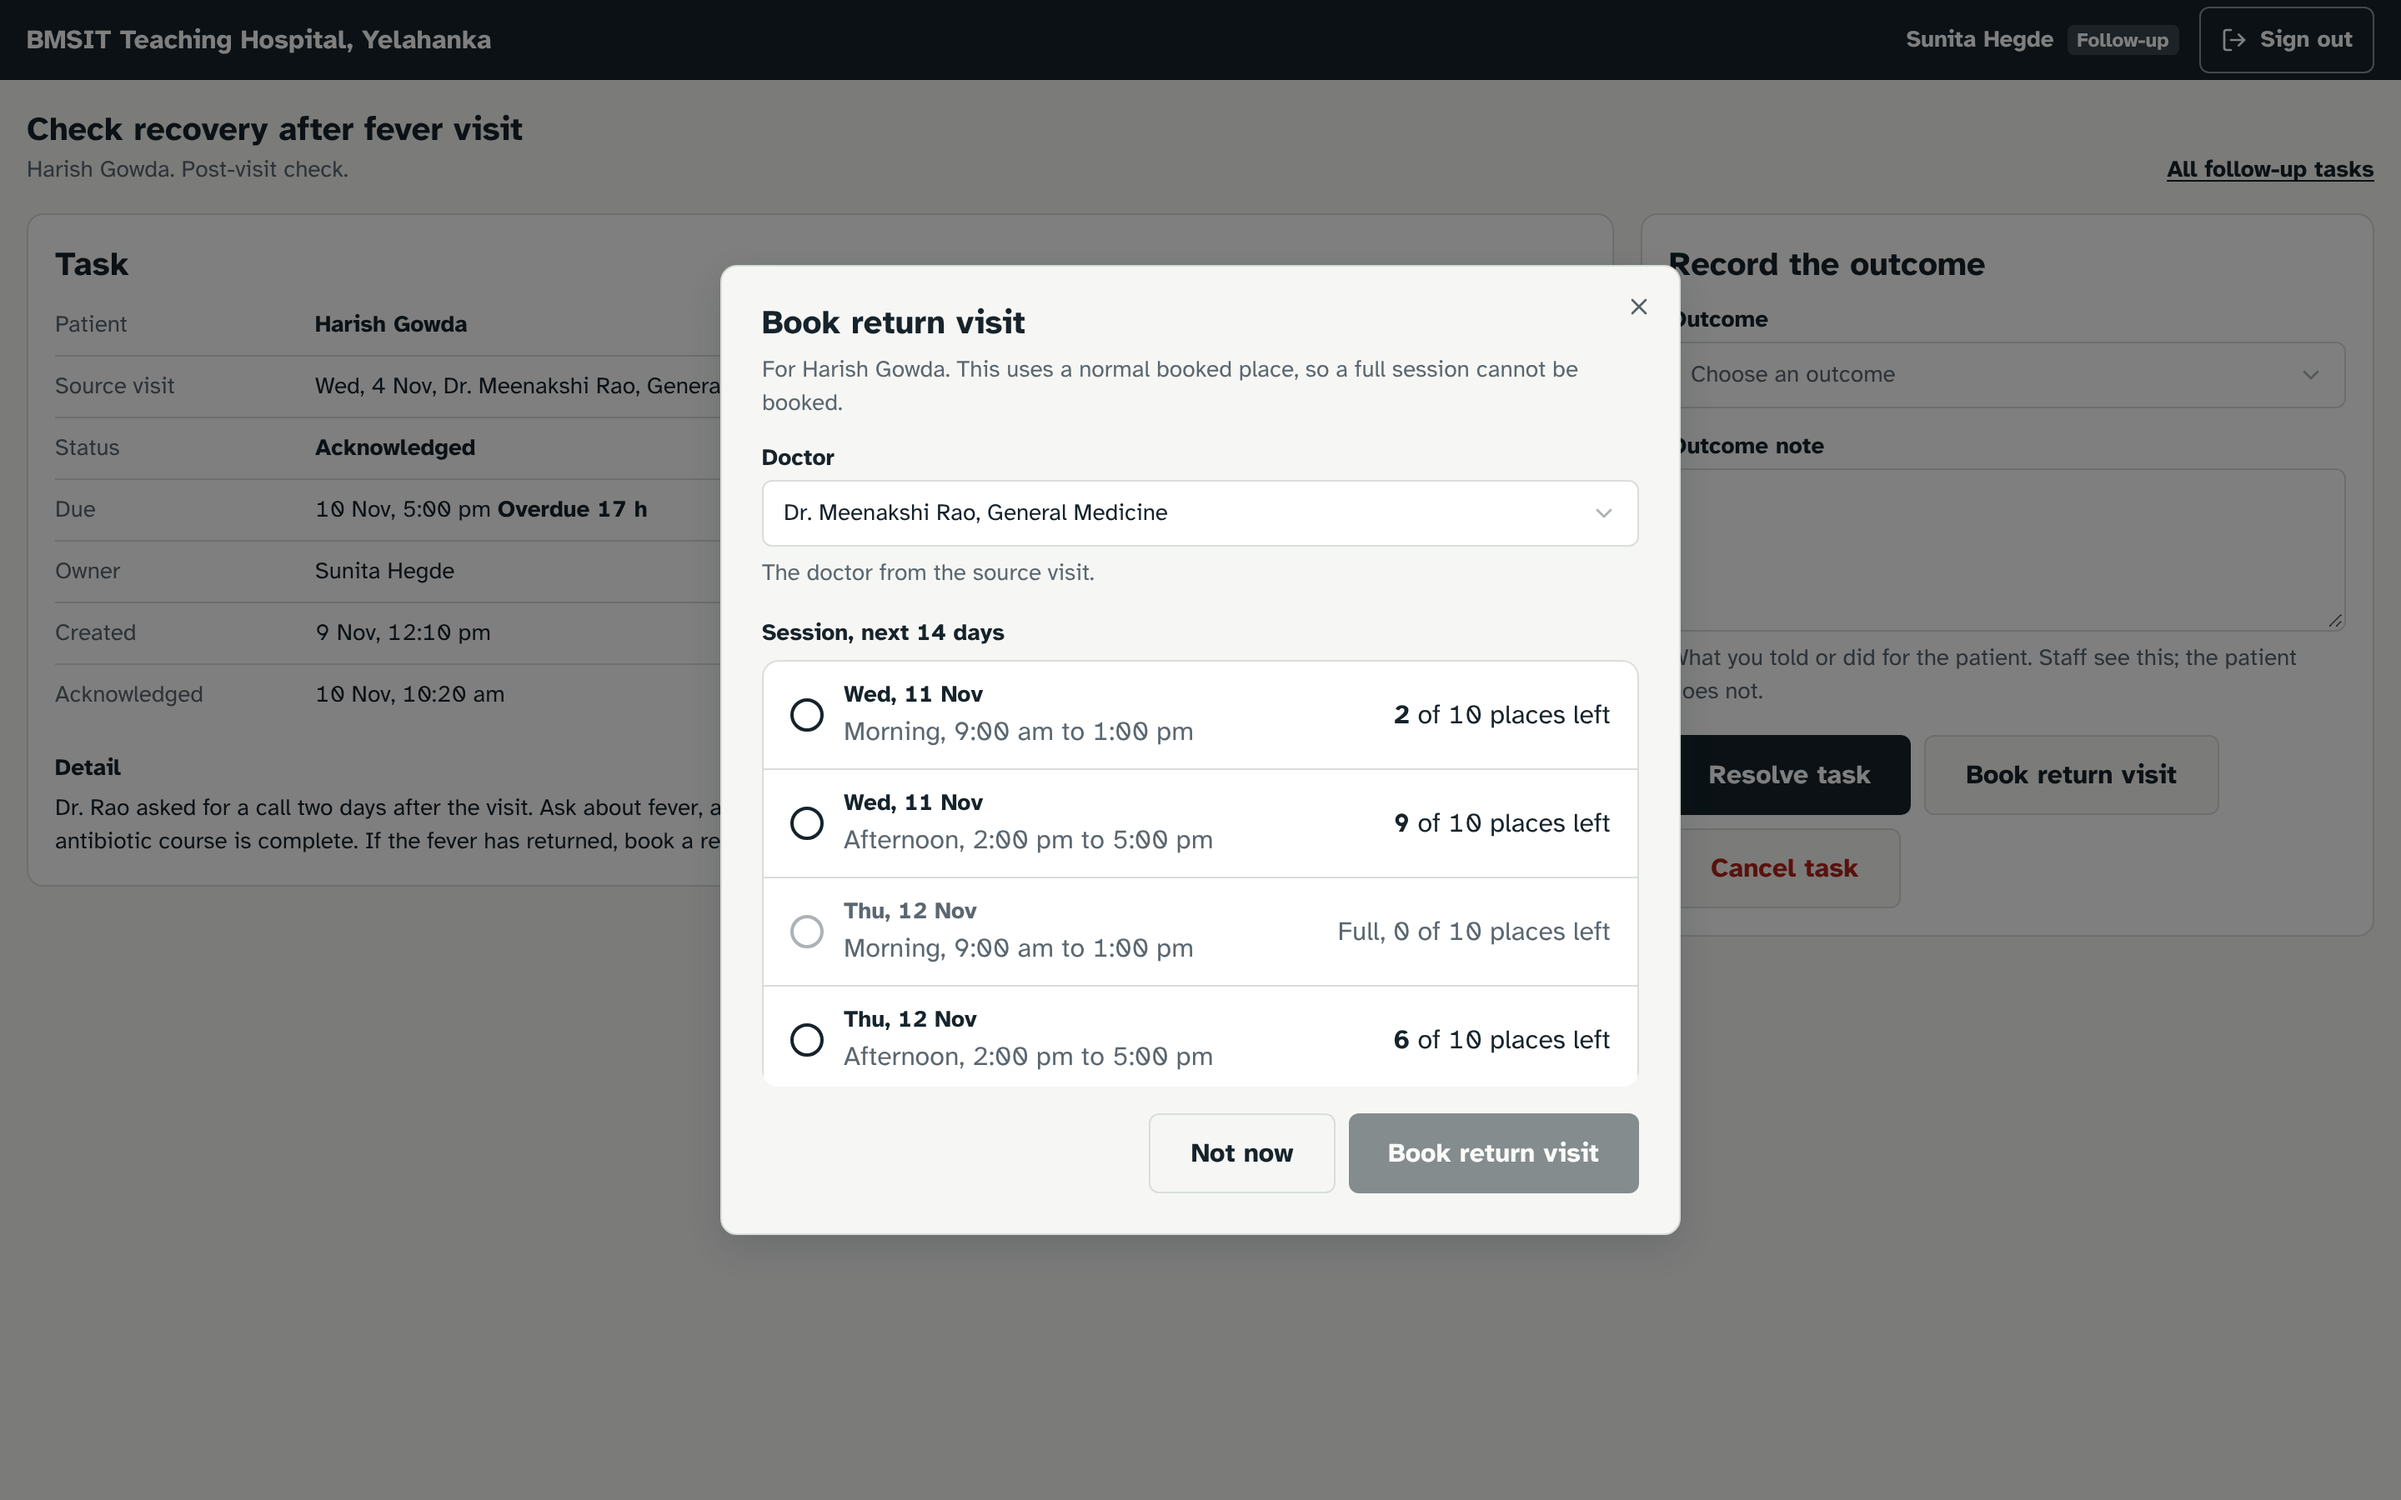
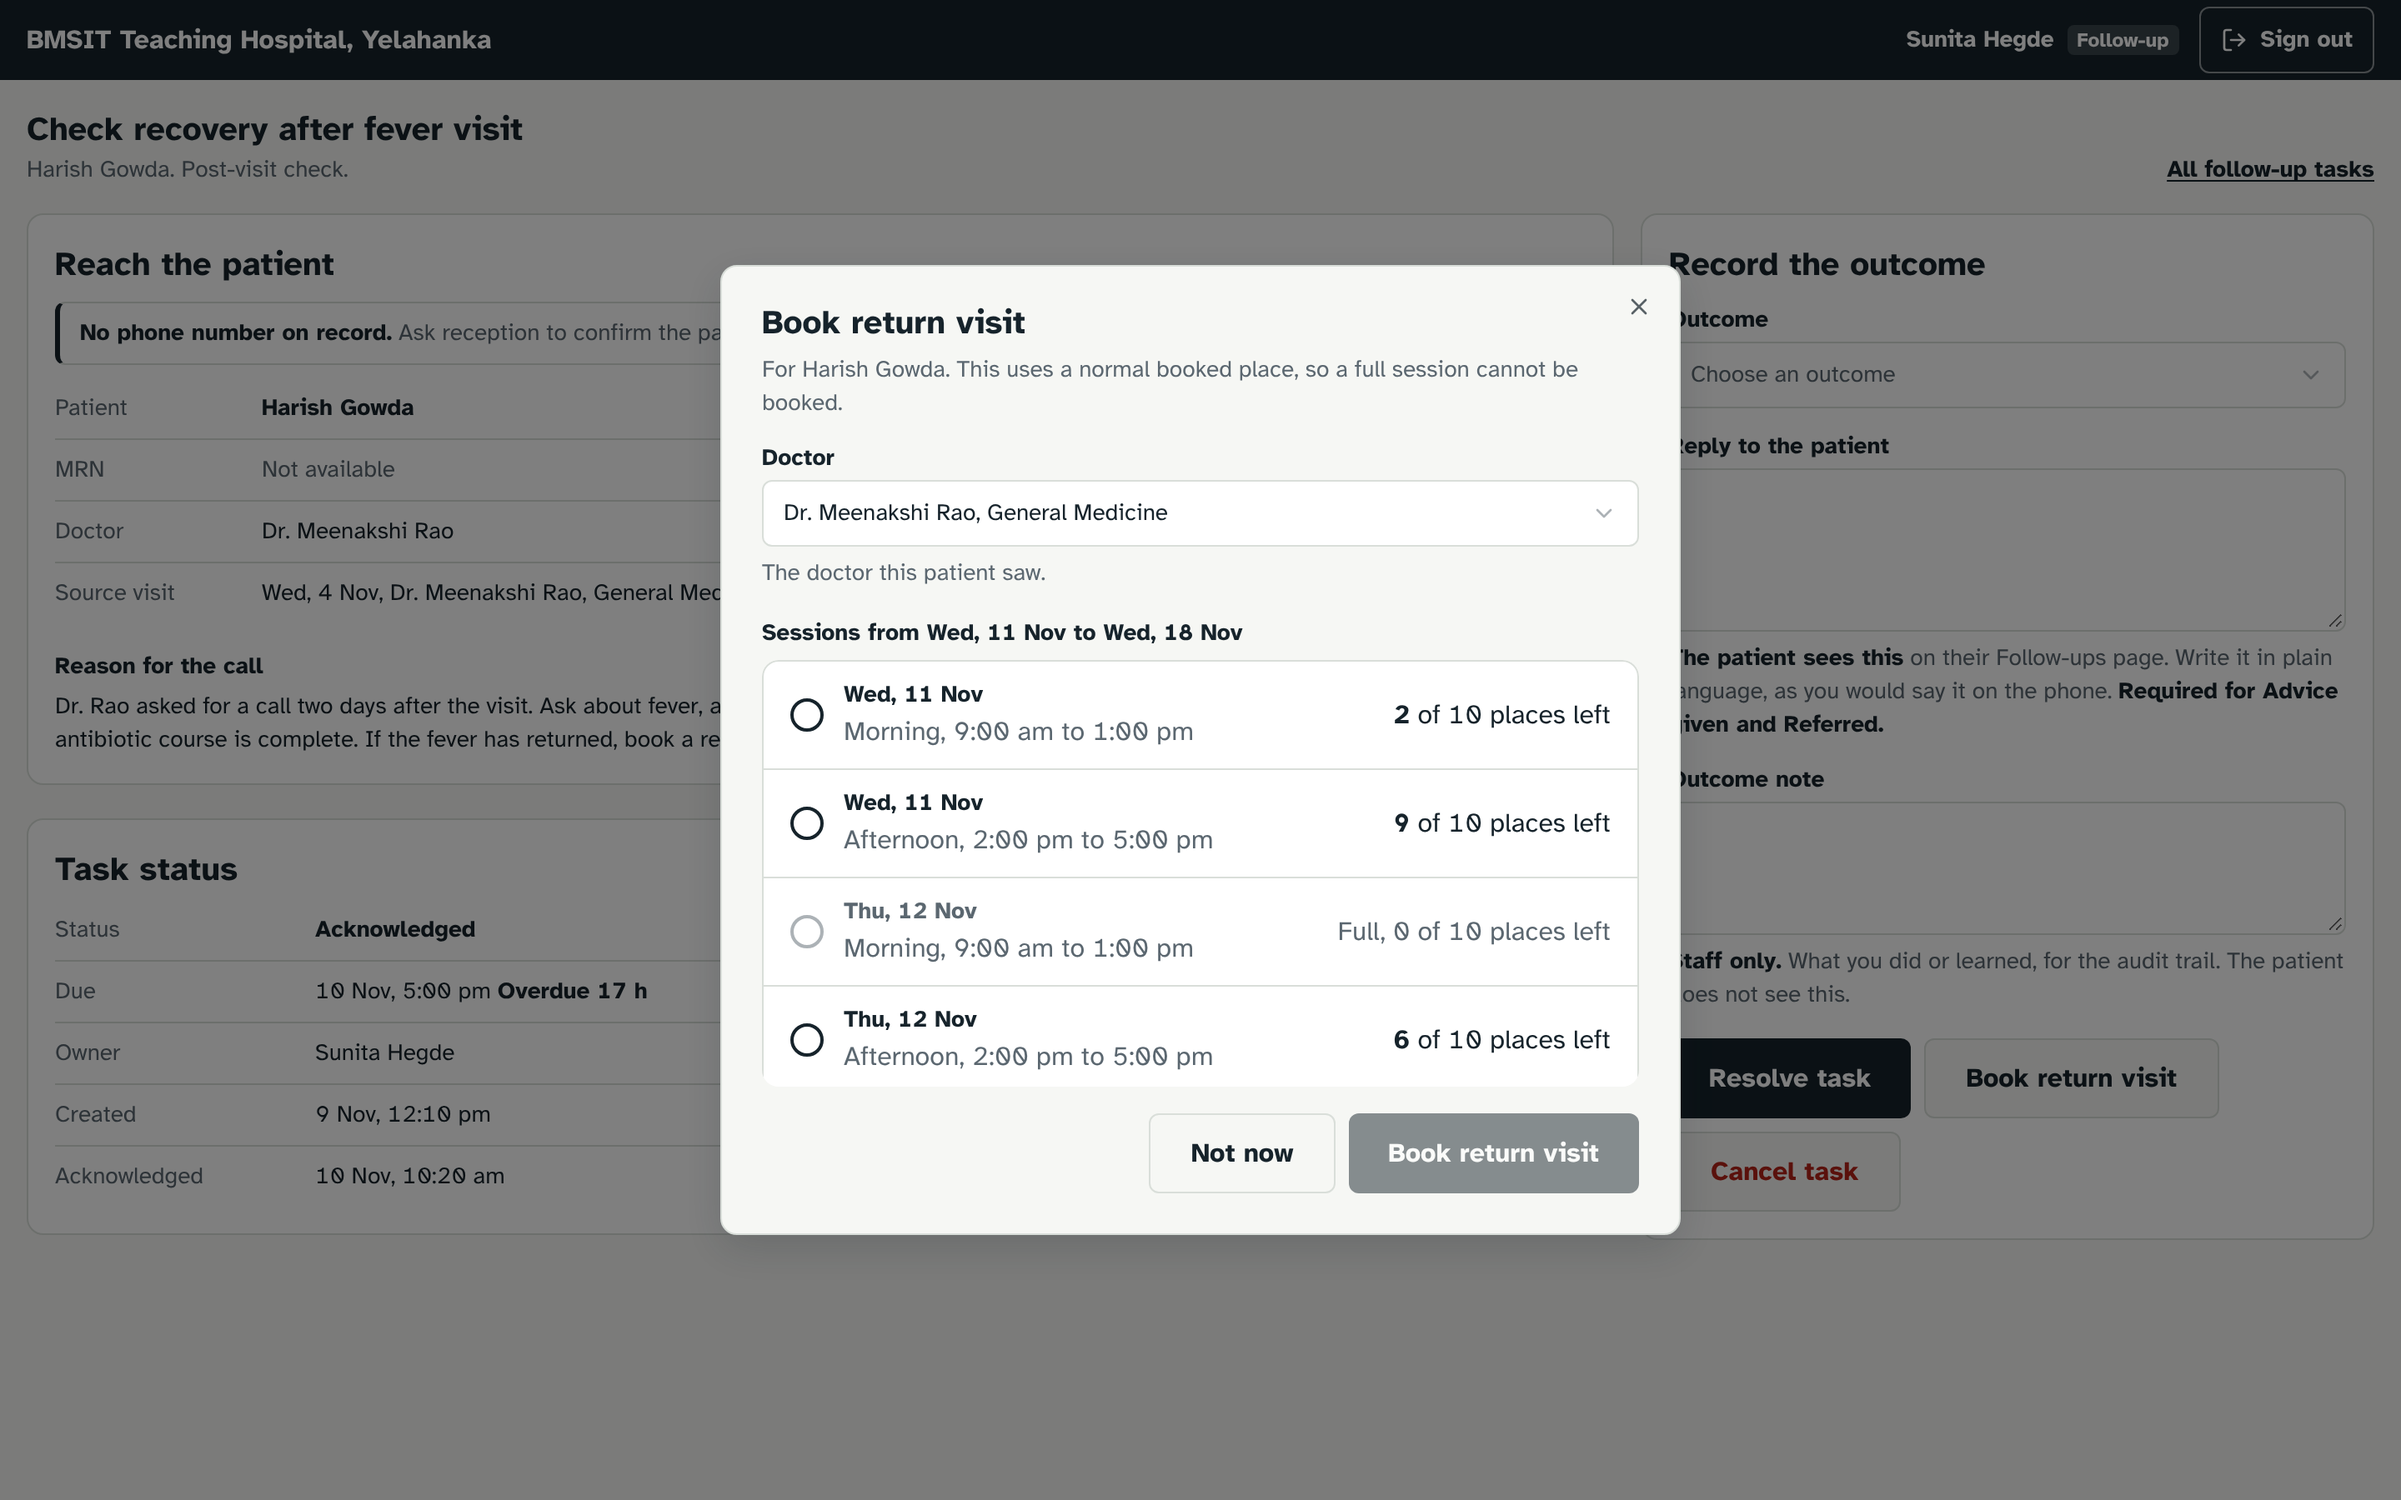
test(web): follow-up screenshots for reach, urgent, reply and return booking; keyboard path includes the reply field

diff --git a/apps/web/src/routes/follow-up/followup-w6.test.tsx b/apps/web/src/routes/follow-up/followup-w6.test.tsx
@@ -51,6 +51,11 @@ const task = (over: Partial<FollowUpTaskView> = {}): FollowUpTaskView => ({
   ...over,
 });
 
+const sentBody = (fetchMock: ReturnType<typeof vi.fn>) => {
+  const init = (fetchMock.mock.calls[0] as [string, RequestInit] | undefined)?.[1];
+  return JSON.parse(String(init?.body ?? '{}')) as Record<string, unknown>;
+};
+
 const wrap = (ui: React.ReactNode) =>
   render(
     <QueryClientProvider client={new QueryClient({ defaultOptions: { mutations: { retry: false }, queries: { retry: false } } })}>
@@ -104,9 +109,9 @@ describe('urgent tasks (PR-13)', () => {
 
   it('marks an urgent row with the word Urgent in the inbox table', () => {
     wrap(<TaskTable now={NOW} tasks={[task({ urgent: true }), task({ id: uuid(5), patientName: 'Lakshmi Narayanan' })]} />);
-    const rows = screen.getAllByTestId('task-row');
-    expect(within(rows[0]!).getByText('Urgent')).toBeVisible();
-    expect(within(rows[1]!).queryByText('Urgent')).toBeNull();
+    const [urgentRow, calmRow] = screen.getAllByTestId('task-row') as [HTMLElement, HTMLElement];
+    expect(within(urgentRow).getByText('Urgent')).toBeVisible();
+    expect(within(calmRow).queryByText('Urgent')).toBeNull();
   });
 });
 
@@ -148,7 +153,7 @@ describe('DispositionForm reply to the patient (PR-14)', () => {
     await user.type(screen.getByLabelText(/Outcome note/), 'Phone switched off, tried twice.');
     await user.click(screen.getByRole('button', { name: 'Resolve task' }));
     await waitFor(() => expect(fetchMock).toHaveBeenCalled());
-    const body = JSON.parse((fetchMock.mock.calls[0]![1] as RequestInit).body as string) as Record<string, unknown>;
+    const body = sentBody(fetchMock);
     expect(body.disposition).toBe('unreachable');
     expect(body).not.toHaveProperty('patientReply');
   });
@@ -163,7 +168,7 @@ describe('DispositionForm reply to the patient (PR-14)', () => {
     await user.type(screen.getByLabelText(/Outcome note/), 'Called 10:40, patient anxious.');
     await user.click(screen.getByRole('button', { name: 'Resolve task' }));
     await waitFor(() => expect(fetchMock).toHaveBeenCalled());
-    const body = JSON.parse((fetchMock.mock.calls[0]![1] as RequestInit).body as string) as Record<string, unknown>;
+    const body = sentBody(fetchMock);
     expect(body).toMatchObject({
       disposition: 'advice_given',
       outcomeNote: 'Called 10:40, patient anxious.',

diff --git a/apps/web/e2e/w6-followup.spec.ts b/apps/web/e2e/w6-followup.spec.ts
@@ -1,8 +1,8 @@
-import { expect, test } from '@playwright/test';
+import { expect, test, type Page } from '@playwright/test';
 import { setupW3, shot } from './w3-helpers';
 import { T_NO_VISIT, T_RECOVERY, T_URGENT, applyW6 } from './w6-followup-mocks';
 
-async function open(page: import('@playwright/test').Page, path: string) {
+async function open(page: Page, path: string) {
   const world = await setupW3(page, 'followup');
   await applyW6(page, world.w3);
   await page.goto(path);
